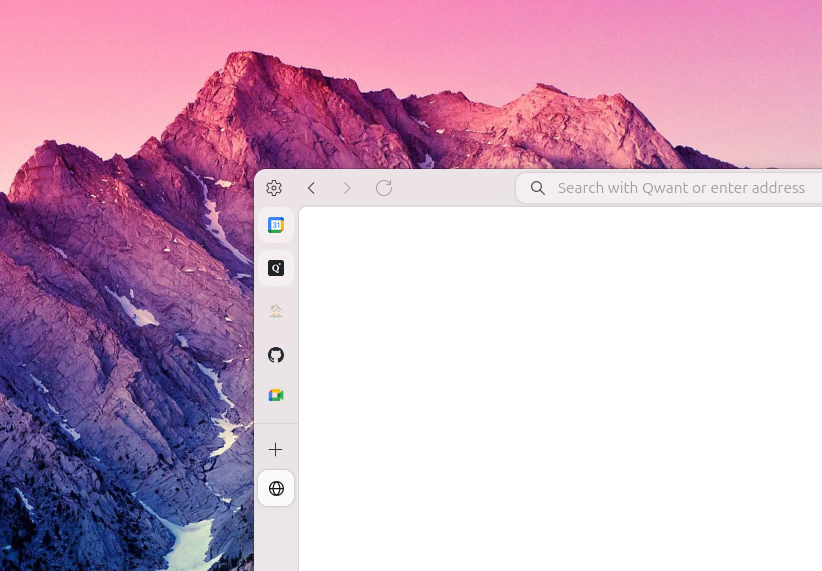
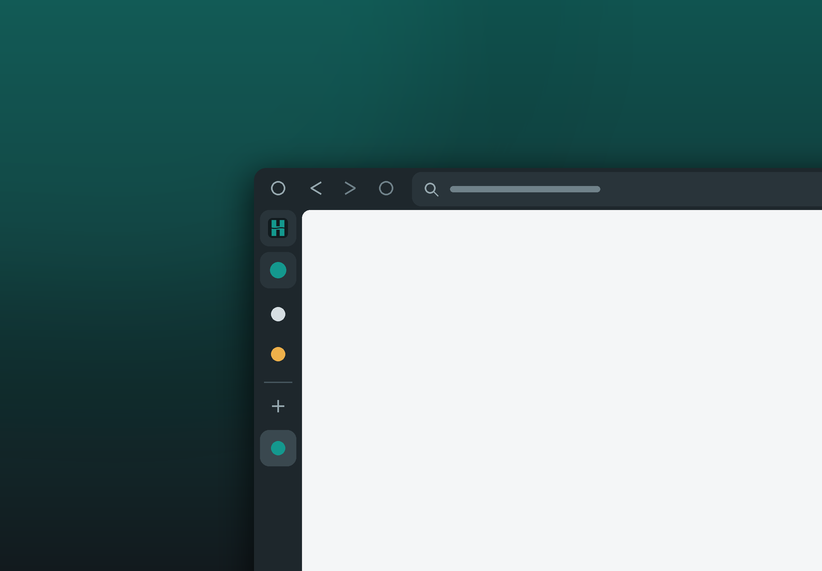
Redraw the layout previews in the settings
The pictures were upstream screenshots with upstream's name in them.
Draw schematic ones instead, generated by scripts/make_layout_previews.py.

diff --git a/scripts/make_layout_previews.py b/scripts/make_layout_previews.py
@@ -1,0 +1,217 @@
+# This Source Code Form is subject to the terms of the Mozilla Public
+# License, v. 2.0. If a copy of the MPL was not distributed with this
+# file, You can obtain one at http://mozilla.org/MPL/2.0/.
+
+"""Draws the layout previews shown in the settings.
+
+  python scripts/make_layout_previews.py
+
+The three pictures are schematic on purpose: no text and no site logos, so
+they need no translation and age with the interface, not with a screenshot.
+"""
+
+import os
+
+from PIL import Image, ImageDraw, ImageFilter
+
+OUT = os.path.join("src", "harbor", "images", "layouts")
+LOGO = os.path.join("configs", "branding", "release", "logo128.png")
+
+SIZE = (822, 571)
+SCALE = 3  # drawn large and scaled down, for smooth edges
+
+BACKDROP_TOP = (16, 84, 80)
+BACKDROP_BOTTOM = (18, 26, 30)
+WINDOW = (30, 39, 44)
+PANEL = (41, 52, 58)
+PANEL_LIGHT = (58, 72, 79)
+LINE = (70, 86, 94)
+ICON = (150, 168, 175)
+TEXT = (205, 216, 220)
+MUTED = (112, 130, 138)
+ACCENT = (20, 152, 142)
+PAGE = (244, 246, 247)
+
+# Where the window sits: its top left corner, the rest runs off the picture.
+LEFT, TOP = 254, 168
+
+
+def s(value):
+  return round(value * SCALE)
+
+
+class Canvas:
+  def __init__(self):
+    self.image = self._backdrop()
+    self.draw = ImageDraw.Draw(self.image)
+
+  def _backdrop(self):
+    width, height = s(SIZE[0]), s(SIZE[1])
+    image = Image.new("RGB", (width, height), BACKDROP_BOTTOM)
+    draw = ImageDraw.Draw(image)
+    for y in range(height):
+      mix = y / height
+      draw.line(
+        [(0, y), (width, y)],
+        fill=tuple(round(a + (b - a) * mix)
+                   for a, b in zip(BACKDROP_TOP, BACKDROP_BOTTOM)))
+    glow = Image.new("RGB", (width, height), (0, 0, 0))
+    ImageDraw.Draw(glow).ellipse(
+      (-width * 0.3, -height * 0.5, width * 0.6, height * 0.6),
+      fill=(26, 120, 112))
+    glow = glow.filter(ImageFilter.GaussianBlur(s(70)))
+    return Image.blend(image, Image.composite(glow, image, glow.convert("L")), 0.55)
+
+  def box(self, x, y, width, height, fill, radius=0):
+    self.draw.rounded_rectangle(
+      (s(x), s(y), s(x + width), s(y + height)), s(radius), fill=fill)
+
+  def line(self, x1, y1, x2, y2, fill=LINE, width=1.4):
+    self.draw.line((s(x1), s(y1), s(x2), s(y2)), fill=fill, width=s(width))
+
+  def dot(self, x, y, radius, fill):
+    self.draw.ellipse(
+      (s(x - radius), s(y - radius), s(x + radius), s(y + radius)), fill=fill)
+
+  def ring(self, x, y, radius, fill=ICON, width=1.6):
+    self.draw.ellipse(
+      (s(x - radius), s(y - radius), s(x + radius), s(y + radius)),
+      outline=fill, width=s(width))
+
+  def chevron(self, x, y, direction, fill=ICON):
+    reach = 5 * direction
+    self.draw.line(
+      (s(x + reach), s(y - 6), s(x - reach), s(y), s(x + reach), s(y + 6)),
+      fill=fill, width=s(1.8), joint="curve")
+
+  def plus(self, x, y, fill=ICON):
+    self.line(x - 6, y, x + 6, y, fill, 1.8)
+    self.line(x, y - 6, x, y + 6, fill, 1.8)
+
+  def logo(self, x, y, size):
+    logo = Image.open(LOGO).convert("RGBA").resize(
+      (s(size), s(size)), Image.LANCZOS)
+    self.image.paste(logo, (s(x), s(y)), logo)
+
+  def save(self, name):
+    image = self.image.resize(SIZE, Image.LANCZOS)
+    image.save(os.path.join(OUT, name), optimize=True)
+
+
+def window(canvas):
+  """The window frame, with a soft shadow behind it."""
+  shadow = Image.new("RGBA", canvas.image.size, (0, 0, 0, 0))
+  ImageDraw.Draw(shadow).rounded_rectangle(
+    (s(LEFT - 4), s(TOP + 6), s(SIZE[0] + 40), s(SIZE[1] + 40)), s(14),
+    fill=(0, 0, 0, 170))
+  shadow = shadow.filter(ImageFilter.GaussianBlur(s(16)))
+  canvas.image.paste(shadow, (0, 0), shadow)
+  canvas.draw = ImageDraw.Draw(canvas.image)
+  canvas.box(LEFT, TOP, SIZE[0], SIZE[1], WINDOW, 12)
+
+
+def navigation(canvas, x, y):
+  canvas.chevron(x, y, 1)
+  canvas.chevron(x + 34, y, -1, MUTED)
+  canvas.ring(x + 70, y, 7, MUTED)
+
+
+def url_bar(canvas, x, y, width):
+  canvas.box(x, y, width, 34, PANEL, 9)
+  canvas.ring(x + 18, y + 16, 5.5)
+  canvas.line(x + 22, y + 20, x + 26, y + 24, ICON, 1.8)
+  canvas.box(x + 38, y + 14, min(150, width - 60), 6, MUTED, 3)
+
+
+def essentials(canvas, x, y, width):
+  half = (width - 8) / 2
+  canvas.box(x, y, half, 44, PANEL, 9)
+  canvas.logo(x + half / 2 - 10, y + 12, 20)
+  canvas.box(x + half + 8, y, half, 44, PANEL, 9)
+  canvas.dot(x + half + 8 + half / 2, y + 22, 9, ACCENT)
+
+
+def tab_row(canvas, x, y, width, label, selected=False, tint=ICON):
+  if selected:
+    canvas.box(x, y, width, 36, PANEL_LIGHT, 9)
+  canvas.dot(x + 18, y + 18, 7, tint)
+  canvas.box(x + 36, y + 15, label, 6, TEXT if selected else MUTED, 3)
+  if selected:
+    canvas.line(x + width - 22, y + 13, x + width - 12, y + 23, ICON, 1.6)
+    canvas.line(x + width - 12, y + 13, x + width - 22, y + 23, ICON, 1.6)
+
+
+def tab_list(canvas, x, y, width):
+  canvas.box(x + 8, y + 6, 70, 6, MUTED, 3)  # space name
+  tab_row(canvas, x, y + 26, width, 120, tint=(214, 222, 226))
+  tab_row(canvas, x, y + 66, width, 86, tint=(238, 176, 74))
+  canvas.line(x + 2, y + 112, x + width - 2, y + 112)
+  canvas.plus(x + 18, y + 136)
+  canvas.box(x + 36, y + 133, 60, 6, MUTED, 3)
+  tab_row(canvas, x, y + 162, width, 60, selected=True, tint=ACCENT)
+
+
+def page(canvas, x, y):
+  canvas.box(x, y, SIZE[0], SIZE[1], PAGE, 8)
+
+
+def single_toolbar():
+  """Everything lives in the sidebar, the address bar included."""
+  canvas = Canvas()
+  window(canvas)
+  x, width = LEFT + 8, 276
+  canvas.dot(x + 12, TOP + 20, 2, ICON)
+  canvas.dot(x + 19, TOP + 20, 2, ICON)
+  canvas.dot(x + 26, TOP + 20, 2, ICON)
+  navigation(canvas, x + width - 78, TOP + 20)
+  url_bar(canvas, x, TOP + 42, width)
+  essentials(canvas, x, TOP + 86, width)
+  tab_list(canvas, x, TOP + 144, width)
+  page(canvas, LEFT + width + 16, TOP + 8)
+  canvas.save("single-toolbar.png")
+
+
+def multiple_toolbar():
+  """Tabs in the sidebar, navigation and the address bar on top."""
+  canvas = Canvas()
+  window(canvas)
+  x, width = LEFT + 8, 276
+  canvas.ring(x + 14, TOP + 20, 7)
+  essentials(canvas, x, TOP + 42, width)
+  tab_list(canvas, x, TOP + 100, width)
+  content = LEFT + width + 16
+  navigation(canvas, content + 14, TOP + 20)
+  url_bar(canvas, content + 110, TOP + 4, 400)
+  page(canvas, content, TOP + 42)
+  canvas.save("multiple-toolbar.png")
+
+
+def collapsed():
+  """The sidebar shrinks to icons."""
+  canvas = Canvas()
+  window(canvas)
+  x, width = LEFT + 6, 36
+  center = x + width / 2
+  canvas.ring(center, TOP + 20, 7)
+  canvas.box(x, TOP + 42, width, 36, PANEL, 9)
+  canvas.logo(center - 10, TOP + 50, 20)
+  canvas.box(x, TOP + 84, width, 36, PANEL, 9)
+  canvas.dot(center, TOP + 102, 8, ACCENT)
+  canvas.dot(center, TOP + 146, 7, (214, 222, 226))
+  canvas.dot(center, TOP + 186, 7, (238, 176, 74))
+  canvas.line(x + 4, TOP + 214, x + width - 4, TOP + 214)
+  canvas.plus(center, TOP + 238)
+  canvas.box(x, TOP + 262, width, 36, PANEL_LIGHT, 9)
+  canvas.dot(center, TOP + 280, 7, ACCENT)
+  content = LEFT + width + 12
+  navigation(canvas, content + 14, TOP + 20)
+  url_bar(canvas, content + 110, TOP + 4, 440)
+  page(canvas, content, TOP + 42)
+  canvas.save("collapsed.png")
+
+
+if __name__ == "__main__":
+  single_toolbar()
+  multiple_toolbar()
+  collapsed()
+  print(f"Wrote the layout previews to {OUT}")
